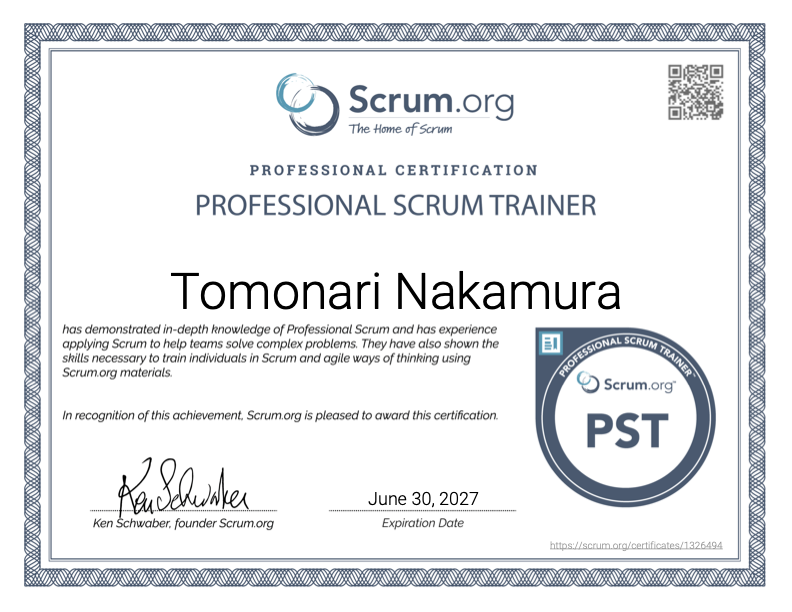
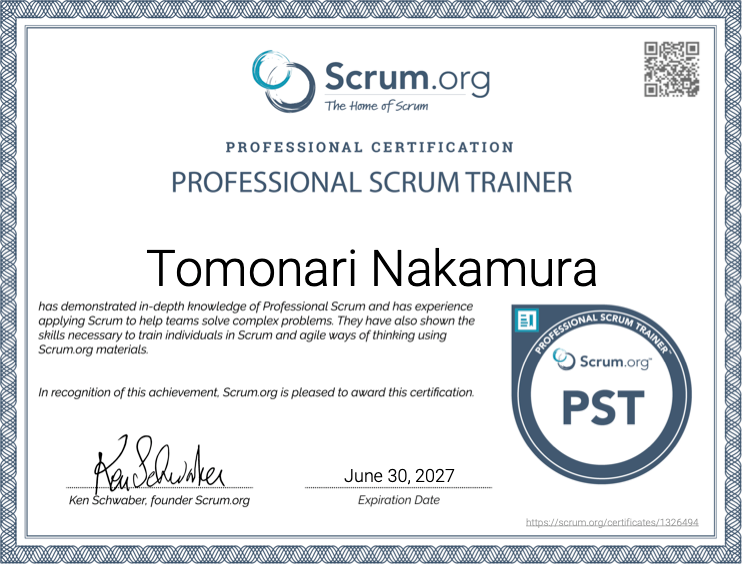
プロフィールサイトをClaude Designのデザイン更新に同期
- PST認定証画像をトリミング済みバージョンに統合
- Scrum.org認定研修カードや導入文などの文言を調整
- 外部リンクにtarget=_blankを付与

diff --git a/index.html b/index.html
@@ -54,7 +54,7 @@
   .pst-band .eyebrow { font-family: 'IBM Plex Mono', monospace; font-size: 12px; letter-spacing: 0.14em; color: #3E6B4A; margin-bottom: 12px; }
   .pst-band p { margin: 0; font-family: 'Zen Old Mincho', serif; font-size: 22px; line-height: 1.7; }
   .pst-band a.more { display: inline-block; margin-top: 16px; font-size: 14px; }
-  .pst-band .cert-img { aspect-ratio: 4/3; background: #E6EDE4 center/contain no-repeat; border: 1px solid #CDD8C7; }
+  .pst-band .cert-img { aspect-ratio: 742/564; background: #E6EDE4 center/contain no-repeat; }
 
   /* Services */
   .services-grid { display: grid; grid-template-columns: repeat(3, 1fr); gap: 24px; }
@@ -65,7 +65,6 @@
   .service-card a.more { display: inline-block; font-size: 14px; }
 
   /* Cases accordion */
-  #cases .lead { margin: 0 0 44px; color: #666B60; max-width: 40em; }
   .cases-list { display: flex; flex-direction: column; gap: 16px; }
   .case-item { border: 1px solid #E0E2D9; background: #FFFFFF; padding: 28px 32px; }
   .case-item summary { cursor: pointer; list-style: none; display: grid; grid-template-columns: 200px 1fr 32px; gap: 40px; align-items: start; }
@@ -217,17 +216,17 @@
         <div>クリエーションライン株式会社</div>
         <div>Japan</div>
         <div class="links">
-          <a href="https://x.com/ikikko">X @ikikko</a>
+          <a href="https://x.com/ikikko" target="_blank" rel="noopener">X @ikikko</a>
         </div>
       </div>
     </div>
   </section>
 
-  <section class="pst-band" style="padding-bottom: 0;">
+  <section class="pst-band">
     <div>
       <div class="eyebrow">PROFESSIONAL SCRUM TRAINER</div>
-      <p>日本では一桁台となる Professional Scrum Trainer として、Scrum.org の公式研修を提供しています。</p>
-      <a class="more" href="https://www.creationline.com/tech-blog/agile-devops/agile/83024">認定の詳細を読む →</a>
+      <p>日本に数名しかいない Professional Scrum Trainer の一人として、Scrum.org の認定研修を提供しています。</p>
+      <a class="more" href="https://www.creationline.com/tech-blog/agile-devops/agile/83024" target="_blank" rel="noopener">認定の詳細はこちら →</a>
     </div>
     <div class="cert-img" style="background-image: url('image/certification/pst-certificate.png');"></div>
   </section>
@@ -245,9 +244,9 @@
       </div>
       <div class="service-card">
         <div class="num">02</div>
-        <h3>Scrum.org認定研修</h3>
+        <h3>Scrum.org 認定研修</h3>
         <p>Professional Scrum Trainer として、Scrum.org の認定研修を提供。現在提供可能なクラスは Professional Scrum Master™ (PSM) です。</p>
-        <a class="more" href="https://www.itpreneurs.co.jp/training/psm1/">研修スケジュール・詳細を見る →</a>
+        <a class="more" href="https://www.itpreneurs.co.jp/training/psm1/" target="_blank" rel="noopener">開催日程・お申し込みはこちら →</a>
       </div>
       <div class="service-card">
         <div class="num">03</div>
@@ -262,7 +261,6 @@
       <h2>支援事例</h2>
       <span class="en">CASES</span>
     </div>
-    <p class="lead">どんな現場で、何を課題として、どう動いたか。関連するアウトプット（登壇資料・ブログ）も添えています。</p>
     <div class="cases-list" id="cases-list"></div>
   </section>
 
@@ -288,8 +286,8 @@
         <div id="books-list"></div>
         <div class="community">
           <h3>COMMUNITY</h3>
-          <div class="item"><a href="https://jenkins.jp/">Jenkinsユーザー会</a>：Jenkinsユーザーカンファレンスの開催など。Jenkins World 2017 で <a href="https://ikikko.hatenablog.com/entry/2017/09/01/075040">Most Valuable Advocate 賞を受賞</a></div>
-          <div class="item"><a href="https://www.scrumfestfukuoka.org/">Scrum Fest Fukuoka</a> 実行委員 / Regional Scrum Gathering Tokyo などに参加</div>
+          <div class="item"><a href="https://jenkins.jp/" target="_blank" rel="noopener">Jenkinsユーザー会</a>：Jenkinsユーザーカンファレンスの開催など。Jenkins World 2017 で <a href="https://ikikko.hatenablog.com/entry/2017/09/01/075040" target="_blank" rel="noopener">Most Valuable Advocate 賞を受賞</a></div>
+          <div class="item"><a href="https://www.scrumfestfukuoka.org/" target="_blank" rel="noopener">Scrum Fest Fukuoka</a> 実行委員 / Regional Scrum Gathering Tokyo などに参加</div>
         </div>
       </div>
     </div>
@@ -302,11 +300,11 @@
     </div>
     <div id="blog-list"></div>
     <div class="blog-links">
-      <a href="https://www.creationline.com/tech-blog/author/t-nakamura">
+      <a href="https://www.creationline.com/tech-blog/author/t-nakamura" target="_blank" rel="noopener">
         <div class="title">会社ブログ ＠クリエーションライン</div>
         <div class="sub">記事一覧を見る →</div>
       </a>
-      <a href="https://ikikko.hatenablog.com/">
+      <a href="https://ikikko.hatenablog.com/" target="_blank" rel="noopener">
         <div class="title">個人ブログ</div>
         <div class="sub">記事一覧を見る →</div>
       </a>
@@ -344,7 +342,7 @@
       </div>
       <div class="contact-block">
         <div class="label">X (TWITTER) DM</div>
-        <div class="value"><a class="x-link" href="https://x.com/ikikko">@ikikko</a></div>
+        <div class="value"><a class="x-link" href="https://x.com/ikikko" target="_blank" rel="noopener">@ikikko</a></div>
       </div>
     </div>
   </div>
@@ -594,7 +592,7 @@
         <div></div>
         <div class="body">
           <p>${esc(c.body)}</p>
-          ${c.hasLinks ? `<div class="links">${c.links.map(l => `<div><span class="arrow">↗</span><a href="${esc(l.href)}">${esc(l.label)}</a></div>`).join("")}</div>` : ""}
+          ${c.hasLinks ? `<div class="links">${c.links.map(l => `<div><span class="arrow">↗</span><a href="${esc(l.href)}" target="_blank" rel="noopener">${esc(l.label)}</a></div>`).join("")}</div>` : ""}
         </div>
       </div>
     </details>
@@ -603,21 +601,21 @@
   // --- render: featured ---
   document.getElementById("featured-grid").innerHTML = featured.map(f => `
     <div class="featured-item">
-      <a href="${esc(f.href)}" aria-label="${esc(f.title)}">
+      <a href="${esc(f.href)}" aria-label="${esc(f.title)}" target="_blank" rel="noopener">
         <div class="thumb" style="background-image: ${f.thumbBg};">
           ${f.noThumb ? `<span class="nothumb">スライド表紙</span>` : ""}
         </div>
       </a>
       <div class="date">${esc(f.date)}</div>
-      <a class="title" href="${esc(f.href)}">${esc(f.title)}</a>
-      <a class="event" href="${esc(f.eventHref)}">${esc(f.event)}</a>
+      <a class="title" href="${esc(f.href)}" target="_blank" rel="noopener">${esc(f.title)}</a>
+      <a class="event" href="${esc(f.eventHref)}" target="_blank" rel="noopener">${esc(f.event)}</a>
     </div>
   `).join("");
 
   const talkRow = t => `
     <div class="talk-row">
       <span class="date">${esc(t.date)}</span>
-      <span><a href="${esc(t.href)}">${esc(t.title)}</a><a class="event" href="${esc(t.eventHref)}">${esc(t.event)}</a></span>
+      <span><a href="${esc(t.href)}" target="_blank" rel="noopener">${esc(t.title)}</a><a class="event" href="${esc(t.eventHref)}" target="_blank" rel="noopener">${esc(t.event)}</a></span>
     </div>
   `;
   document.getElementById("recent-talks").innerHTML = recentTalks.map(talkRow).join("");
@@ -626,19 +624,19 @@
   // --- render: books ---
   document.getElementById("books-list").innerHTML = books.map(b => `
     <div class="book-row">
-      <a class="cover" href="${esc(b.href)}" aria-label="${esc(b.title)}" style="background-image: ${b.coverBg};"></a>
+      <a class="cover" href="${esc(b.href)}" aria-label="${esc(b.title)}" style="background-image: ${b.coverBg};" target="_blank" rel="noopener"></a>
       <span class="date">${esc(b.date)}</span>
-      <span><a href="${esc(b.href)}">${esc(b.title)}</a><span class="note">${esc(b.note)}</span></span>
+      <span><a href="${esc(b.href)}" target="_blank" rel="noopener">${esc(b.title)}</a><span class="note">${esc(b.note)}</span></span>
     </div>
   `).join("");
 
   // --- render: blog ---
   document.getElementById("blog-list").innerHTML = blogPosts.map(p => `
     <div class="blog-row">
-      <a class="thumb" href="${esc(p.href)}" aria-label="${esc(p.title)}" style="background-image: ${p.thumbBg};"></a>
+      <a class="thumb" href="${esc(p.href)}" aria-label="${esc(p.title)}" style="background-image: ${p.thumbBg};" target="_blank" rel="noopener"></a>
       <span class="date">${esc(p.date)}</span>
       <span class="source">${esc(p.source)}</span>
-      <a href="${esc(p.href)}">${esc(p.title)}</a>
+      <a href="${esc(p.href)}" target="_blank" rel="noopener">${esc(p.title)}</a>
     </div>
   `).join("");
 
@@ -665,7 +663,7 @@
     <div class="cert-group">
       <div class="org">${esc(g.org)}</div>
       <div class="items">
-        ${g.items.map(i => `<a class="cert-badge" href="${esc(i.href)}" title="${esc(i.label)}" aria-label="${esc(i.label)}" style="background-image: ${i.bg};"></a>`).join("")}
+        ${g.items.map(i => `<a class="cert-badge" href="${esc(i.href)}" title="${esc(i.label)}" aria-label="${esc(i.label)}" style="background-image: ${i.bg};" target="_blank" rel="noopener"></a>`).join("")}
       </div>
     </div>
   `).join("");
